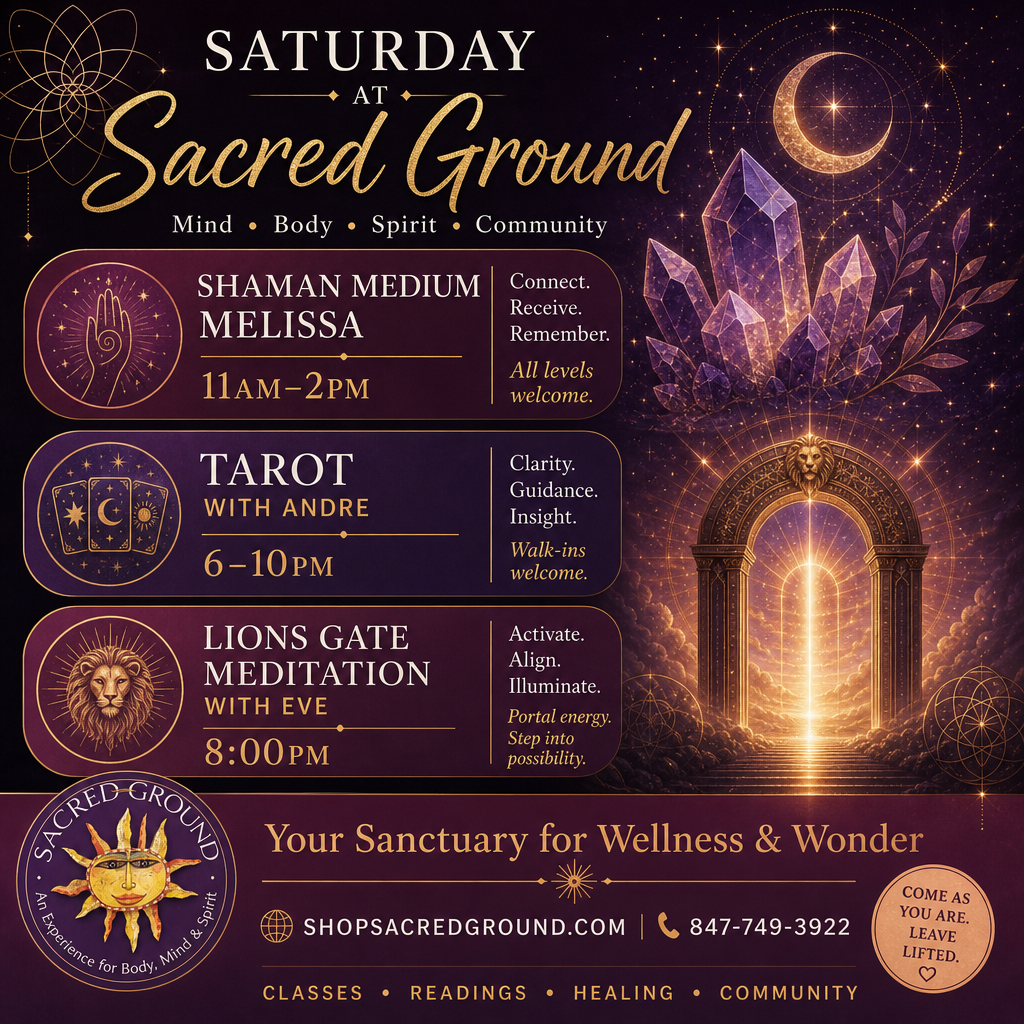
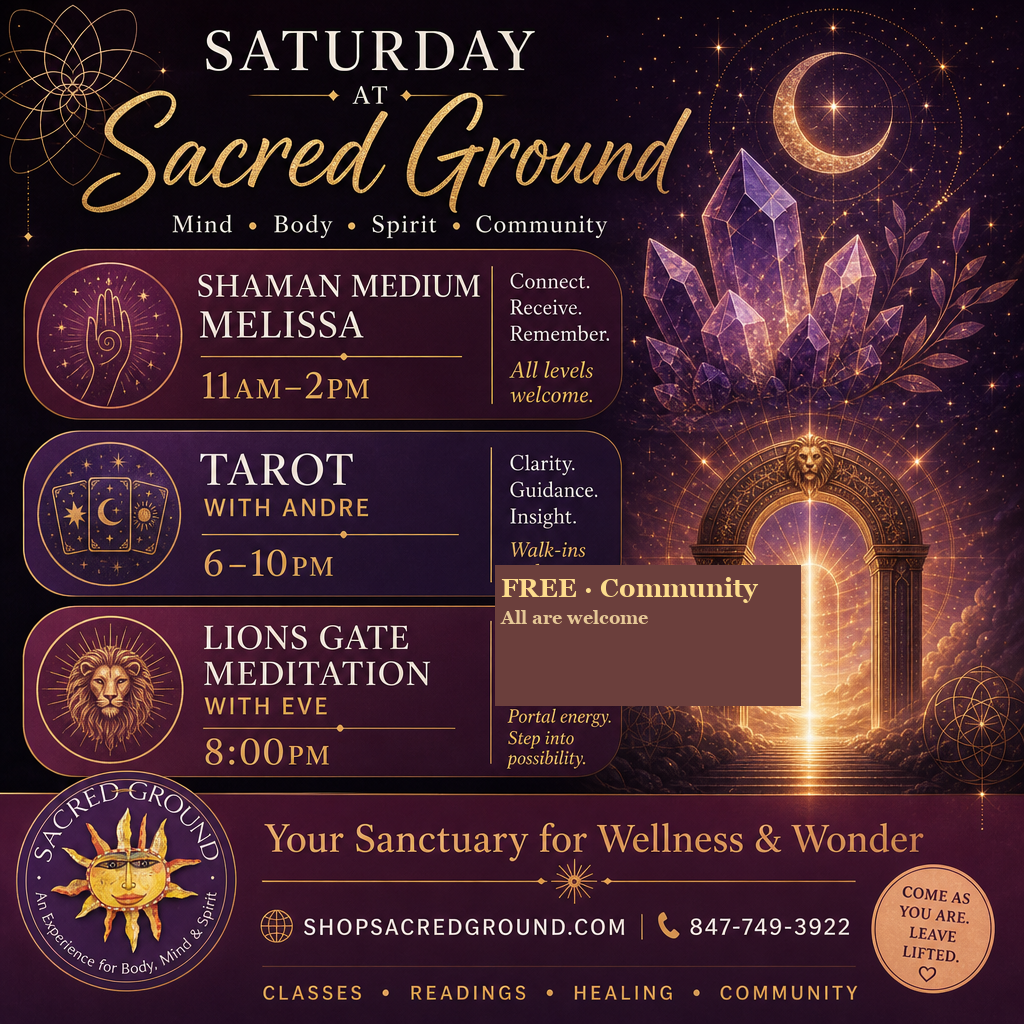
Ensure free-community language on morning multi and week-ahead captions.
Lions Gate and similar free gatherings now get the explicit welcome note in every event list block, week_ahead softens its book CTA when free community is present, and Aug 8 local flyers mark FREE on the Lions Gate card.

Changed region(s): [[0.4688, 0.5312, 0.7812, 0.6875]]

diff --git a/tests/test_autopilot.py b/tests/test_autopilot.py
@@ -739,6 +739,93 @@ class AutopilotTests(unittest.TestCase):
         self.assertNotIn(goodnight, stub_text)
         self.assertNotIn("https://shopsacredground.com/event/meditation/", stub_text)
 
+    def test_free_community_note_on_morning_multi_and_week_ahead(self) -> None:
+        """Lions Gate / free community: explicit note on multi + week_ahead; soft CTA."""
+        from marketing import captions
+        from marketing.classify import is_free_community_event
+        from marketing.models import Event
+
+        melissa = Event(
+            id=1,
+            title="Shaman Medium Melissa",
+            start_date="2026-08-08 11:00:00",
+            end_date="2026-08-08 14:00:00",
+            url="https://shopsacredground.com/book/melissa/",
+            cost="$99",
+        )
+        lions = Event(
+            id=25926,
+            title="Lions Gate Meditation with Eve Free Community Event",
+            start_date="2026-08-08 20:00:00",
+            end_date="2026-08-08 21:00:00",
+            url="https://shopsacredground.com/event/lions-gate-meditation-with-eve/",
+            cost="Free",
+        )
+        # Title without "community" still qualifies via Free cost + lions gate cue
+        lions_short = Event(
+            id=25927,
+            title="Lions Gate Meditation with Eve",
+            start_date="2026-08-08 20:00:00",
+            end_date="2026-08-08 21:00:00",
+            url="https://shopsacredground.com/event/lions-gate-meditation-with-eve/",
+            cost="Free",
+        )
+        self.assertTrue(is_free_community_event(lions))
+        self.assertTrue(is_free_community_event(lions_short))
+
+        note = "Free community gathering — all are welcome."
+        day = date(2026, 8, 8)
+        fri = date(2026, 8, 7)
+
+        morning_multi = captions.caption_today([melissa, lions], "facebook", day)["text"]
+        self.assertIn(note, morning_multi)
+        self.assertIn("Lions Gate Meditation with Eve Free Community Event", morning_multi)
+
+        # Friday morning: tomorrow=Sat lineup (multi) — note must appear
+        fri_morning = captions.caption_today([melissa, lions], "facebook", day)["text"]
+        self.assertIn(note, fri_morning)
+
+        week_ahead = captions.caption_week_ahead(
+            [melissa, lions], "facebook", fri
+        )["text"]
+        self.assertIn(note, week_ahead)
+        self.assertIn(
+            "Book a session when you’re ready — free community gatherings are open to all.",
+            week_ahead,
+        )
+        self.assertNotIn("Call to book a session or grab your spot online.", week_ahead)
+
+        # Paid-only week_ahead keeps the book CTA
+        paid_only = captions.caption_week_ahead([melissa], "instagram", fri)["text"]
+        self.assertIn("Call to book a session or grab your spot online.", paid_only)
+        self.assertNotIn(note, paid_only)
+
+        afternoon = captions.caption_afternoon_spotlight(lions, "facebook", fri)["text"]
+        self.assertIn(note, afternoon)
+
+        # Sat morning tonight merge still carries the note (and no duplicate spam)
+        sat_morning = captions.caption_today(
+            [melissa],
+            "facebook",
+            day,
+            tonight_events=[lions],
+        )["text"]
+        self.assertEqual(sat_morning.count(note), 1)
+
+        # Tuesday Free Community Meditation still uses meditation block (doors close)
+        tue_med = Event(
+            id=99,
+            title="Free Community Meditation",
+            start_date="2026-08-04 19:00:00",
+            end_date="2026-08-04 20:00:00",
+            url="https://shopsacredground.com/event/free-community-meditation-2/",
+            cost="Free",
+        )
+        self.assertTrue(is_free_community_event(tue_med))
+        med_today = captions.caption_today([tue_med], "facebook", date(2026, 8, 4))["text"]
+        self.assertIn("Doors close at 7:05pm", med_today)
+        self.assertIn("All are welcome", med_today)
+
     def test_tuesday_meditation_schedule_and_holiday_skips(self) -> None:
         from marketing import schedule
 

diff --git a/marketing/captions.py b/marketing/captions.py
@@ -68,6 +68,7 @@ def _event_block(ev: Event, with_link: bool, *, under_day: bool = False) -> str:
 
     When under_day=True (week / week-ahead day sections), omit the weekday/date
     from the when line — the day header already carries it.
+    Free community events get an explicit welcome note under the block.
     """
     if is_community_meditation(ev):
         return meditation_event_block(event=ev)
@@ -83,6 +84,9 @@ def _event_block(ev: Event, with_link: bool, *, under_day: bool = False) -> str:
         lines.append(f"  {when_line}")
     if with_link and ev.url:
         lines.append(f"  {ev.url}")
+    note = _free_community_note(ev)
+    if note:
+        lines.append(f"  {note}")
     return "\n".join(lines)
 
 
@@ -139,10 +143,25 @@ def _tomorrow_hook(seed: str, *, day_label: str = "", title: str = "", kind: str
 def _free_community_note(ev: Event) -> str:
     from .classify import is_free_community_event
 
-    if is_free_community_event(ev) or "free" in (ev.cost or "").lower():
-        if "community" in (ev.title or "").lower() or is_free_community_event(ev):
-            return "Free community gathering — all are welcome."
+    if is_free_community_event(ev):
+        return "Free community gathering — all are welcome."
+    # Soft fallback: cost Free + community cue in title (covers odd TEC variants).
+    if "free" in (ev.cost or "").lower() and "community" in (ev.title or "").lower():
+        return "Free community gathering — all are welcome."
     return ""
+
+
+def _week_ahead_booking_cta(events: Sequence[Event]) -> str:
+    """Booking closer — soften when the list includes a free community gathering."""
+    from .classify import is_free_community_event
+
+    has_free = any(is_free_community_event(e) for e in events)
+    if has_free:
+        return (
+            "Book a session when you’re ready — free community gatherings "
+            "are open to all."
+        )
+    return "Call to book a session or grab your spot online."
 
 
 def caption_today(
@@ -319,7 +338,7 @@ def caption_week_ahead(events: List[Event], platform: str, day: date) -> Dict:
     night = _week_ahead_night_block(f"{seed}|night")
     if night:
         body += "\n\n" + night
-    body += "\n\nCall to book a session or grab your spot online."
+    body += "\n\n" + _week_ahead_booking_cta(events)
     body += "\n847-749-3922"
     body += "\nhttps://shopsacredground.com/events/"
     # Standalone goodnight — day-based so FB+IG match and consecutive nights differ.

diff --git a/marketing/morning_flyers.py b/marketing/morning_flyers.py
@@ -351,16 +351,33 @@ def build_generation_prompt(
         "the Aug 6 gold standard. FORBIDDEN: one large hero photo/title with a "
         "tiny ALSO TODAY / secondary corner badge for another practitioner."
     )
+    free_bit = ""
+    if events:
+        from .classify import is_free_community_event
+
+        free_titles = [
+            _short_title(e.title)
+            for e in pick_events_for_flyer(events)
+            if is_free_community_event(e)
+        ]
+        if free_titles:
+            free_bit = (
+                " Free community events on equal cards must show FREE or "
+                "Free Community on the card itself (OK — not a dollar price): "
+                + " · ".join(free_titles)
+                + "."
+            )
     shared = (
         f"Chicago date {day.isoformat()}. "
         f"Date/time text: {copy.get('date_short')}. "
-        f"{events_bit}{visit} {equal_rule} "
+        f"{events_bit}{visit}{free_bit} {equal_rule} "
         "Elegant mixed fonts (script + serif), circular Sacred Ground sun-face "
         f"logo, footer with {WEBSITE} and {PHONE}. Prebranded finished flyer. "
         "CRITICAL: do NOT include any prices, dollar signs, ticket costs, or "
-        "dollar amounts anywhere on the graphic. No invented practitioner faces "
-        "unless a real photo reference is provided. Vary gold/jewel accents by "
-        "day — versions of the system, not exact clones."
+        "dollar amounts anywhere on the graphic. FREE / Free Community for "
+        "free community gatherings is allowed and preferred. No invented "
+        "practitioner faces unless a real photo reference is provided. Vary "
+        "gold/jewel accents by day — versions of the system, not exact clones."
     )
     if is_b:
         bg_energy = (
@@ -525,7 +542,16 @@ def _host_from_title(title: str) -> str:
 
 
 def _keywords_for_event(ev: Event) -> str:
+    from .classify import is_free_community_event
+
     low = (ev.title or "").lower()
+    # Free community gatherings: FREE is OK on-image (dollar prices are not).
+    if is_free_community_event(ev):
+        if "lions gate" in low:
+            return "FREE · Portal · Align"
+        if "meditation" in low:
+            return "FREE · Community · Welcome"
+        return "FREE · Community · Welcome"
     if "tai chi" in low:
         return "Move · Breathe · Flow"
     if "tarot" in low or "rune" in low:

diff --git a/marketing/classify.py b/marketing/classify.py
@@ -371,11 +371,32 @@ def _evening_hour_from(cfg_key: str, default: int = 17) -> int:
 
 
 def is_free_community_event(event: Event) -> bool:
-    """True for free community gatherings (Lions Gate, etc.) — not Tuesday doors-close."""
-    low = f"{event.title} {event.cost} {event.excerpt}".lower()
-    if "free" not in low:
+    """True for free community gatherings (Lions Gate, etc.) — not Tuesday doors-close.
+
+    Matches when "free" appears with community/welcome language, or when cost is
+    Free and the title carries a known free-gathering cue (Lions Gate, meditation,
+    reiki share, etc.) even if "community" drops from the title.
+    """
+    title = (event.title or "").lower()
+    cost = (event.cost or "").lower()
+    excerpt = (event.excerpt or "").lower()
+    blob = f"{title} {cost} {excerpt}"
+    if "free" not in blob:
         return False
-    return any(k in low for k in ("community", "all welcome", "all are welcome"))
+    if any(k in blob for k in ("community", "all welcome", "all are welcome")):
+        return True
+    # cost Free + signature free-gathering keywords (title may omit "community")
+    if "free" in cost:
+        cues = (
+            "lions gate",
+            "meditation",
+            "reiki share",
+            "educational night",
+            "tarotheads",
+            "tarot heads",
+        )
+        return any(k in title for k in cues)
+    return False
 
 
 def event_still_upcoming(event: Event, after: Optional[datetime] = None) -> bool:
